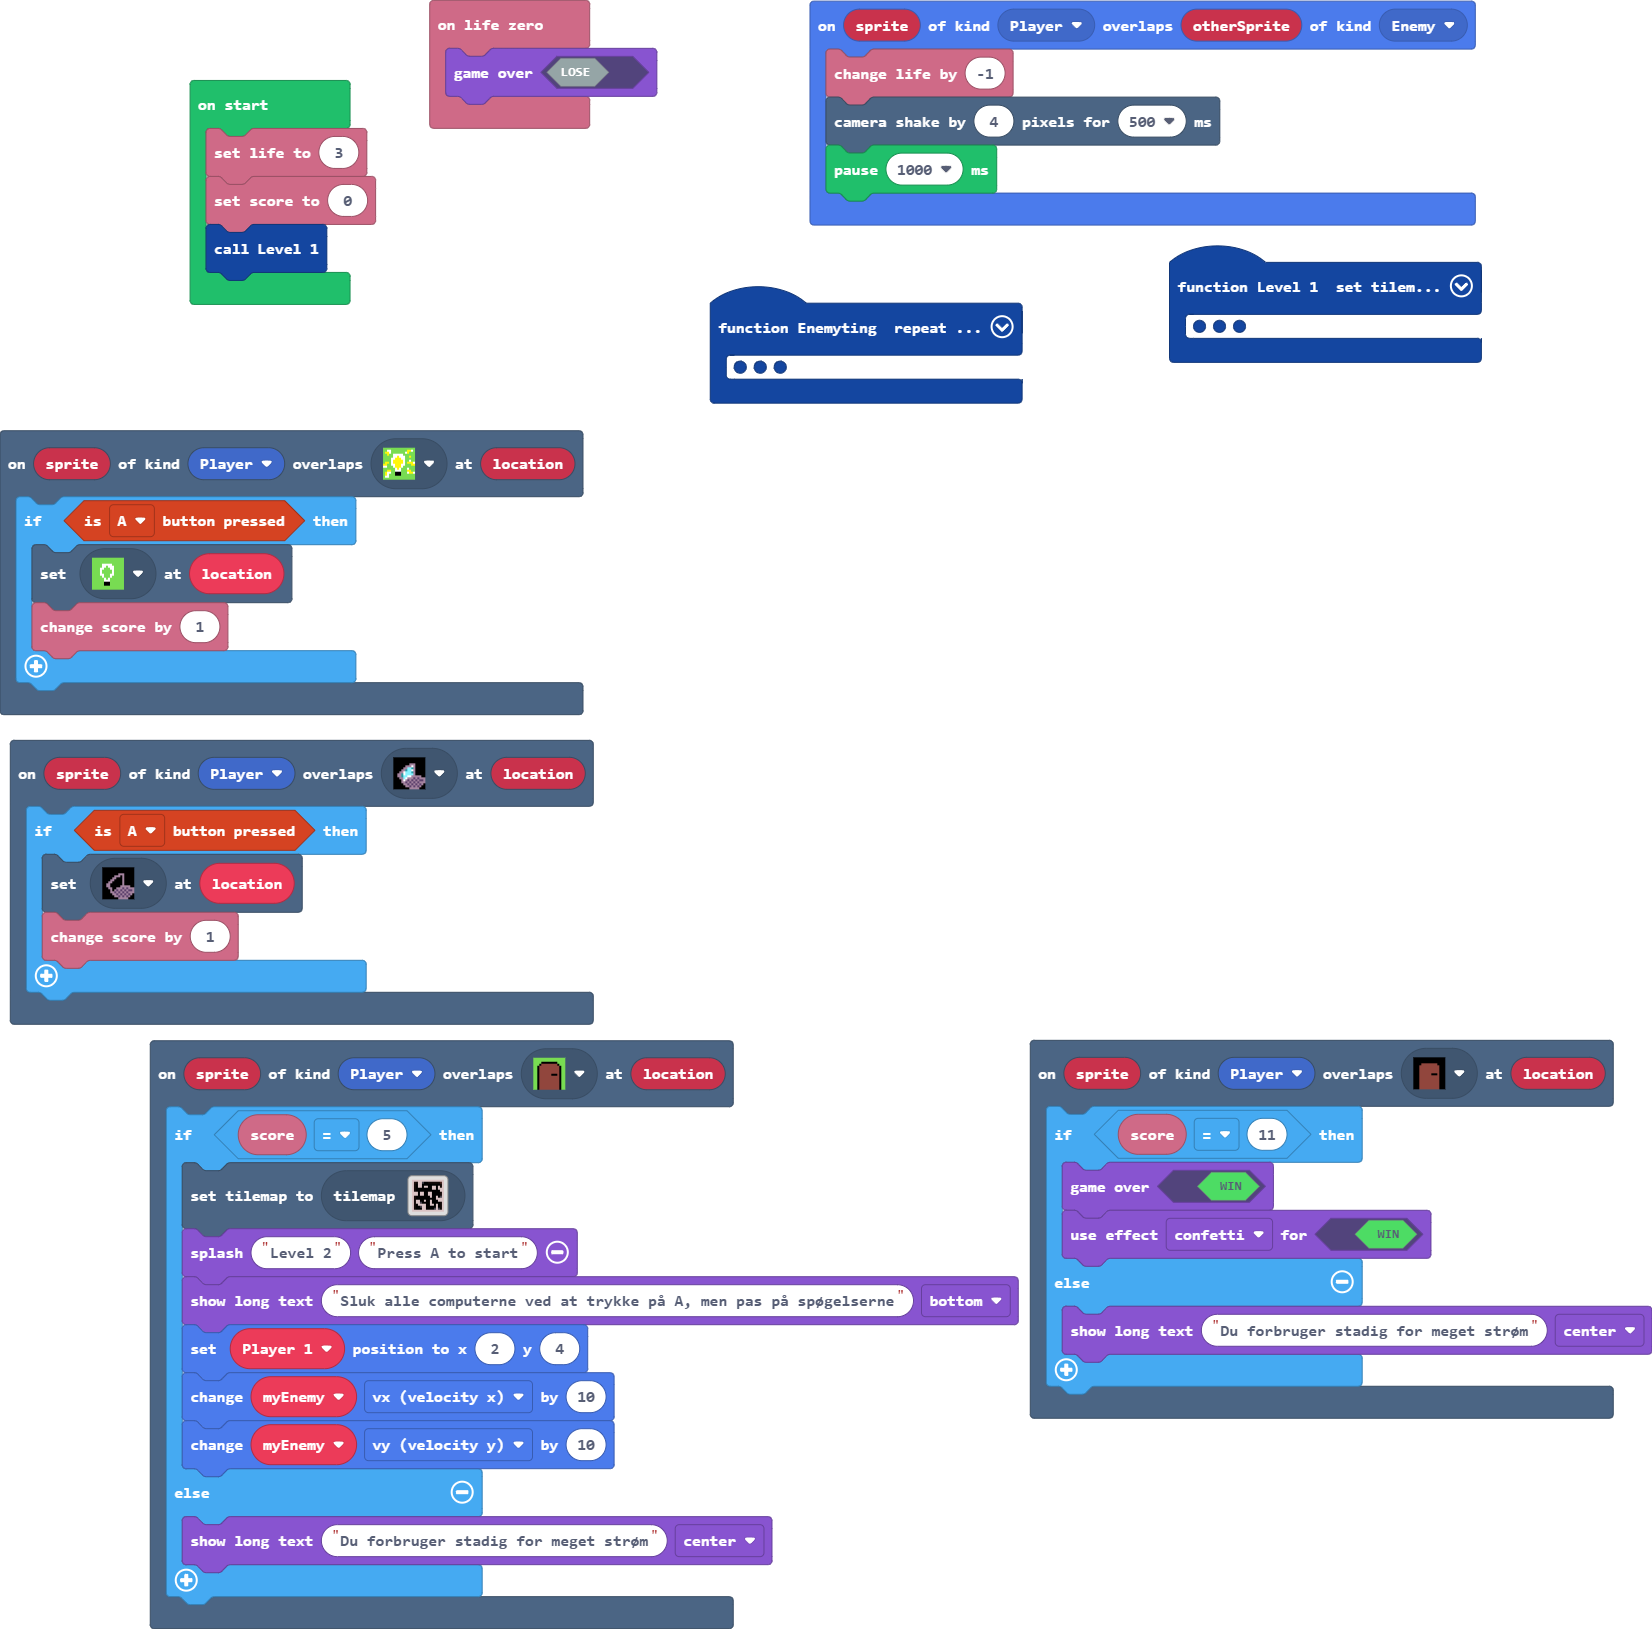
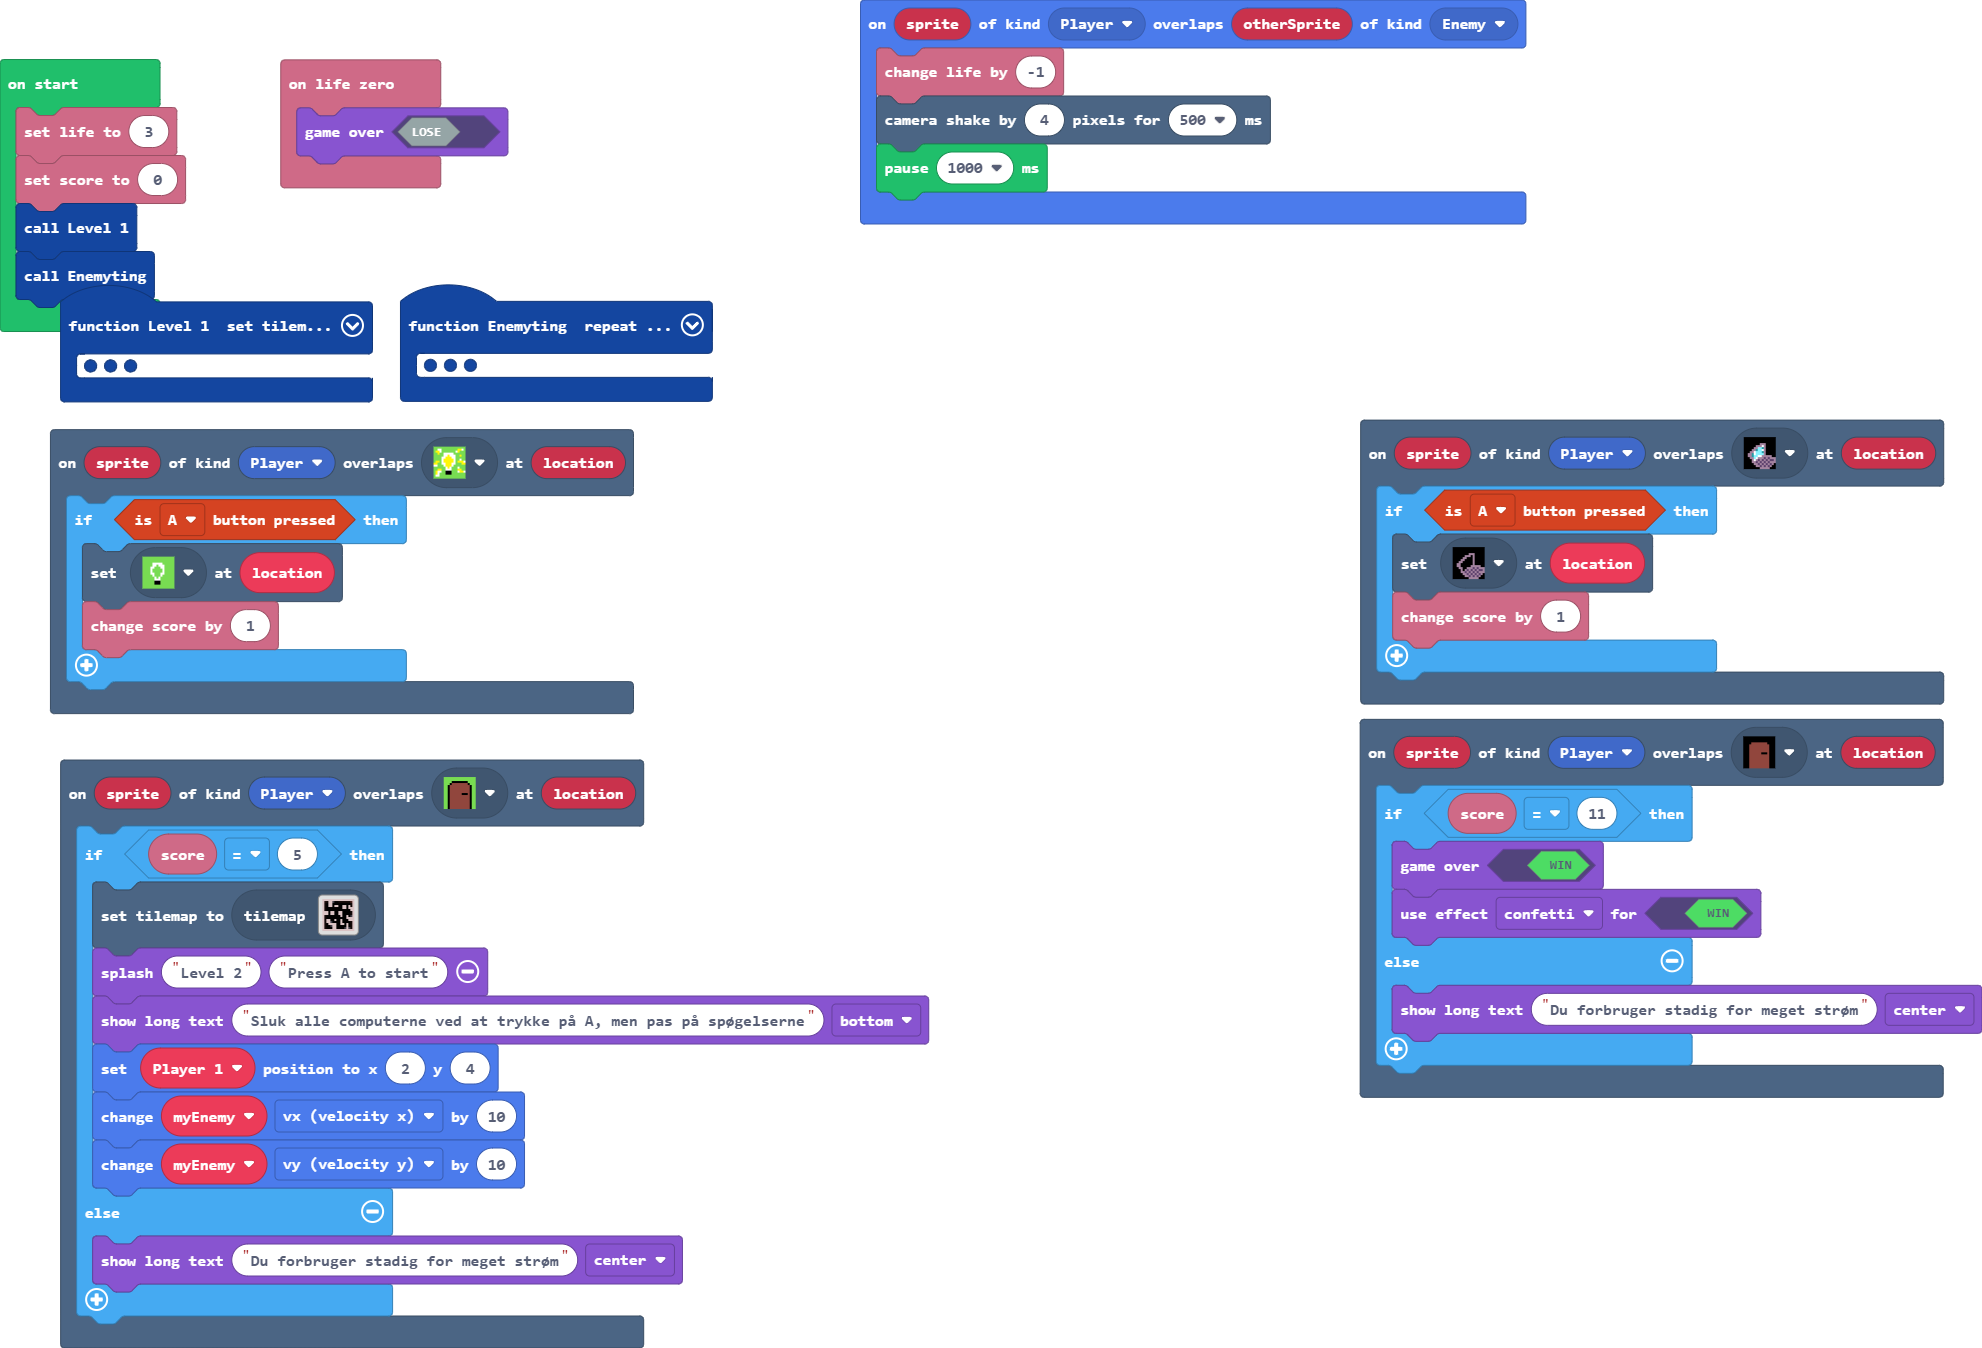
Update main.blocks, main.ts

diff --git a/main.ts b/main.ts
@@ -19,7 +19,7 @@ scene.onOverlapTile(SpriteKind.Player, assets.tile`myTile3`, function (sprite, l
 function Level_1 () {
     tiles.setCurrentTilemap(tilemap`level2`)
     game.splash("Level 1", "Press A to start")
-    game.showLongText("Sluk alle lamperne (5) ved at trykke på A, men pas på spøgelserne", DialogLayout.Bottom)
+    game.showLongText("Sluk alle lamperne ved at trykke på A, men pas på spøgelserne", DialogLayout.Bottom)
     Player_1 = sprites.create(assets.image`myImage`, SpriteKind.Player)
     Player_1.setPosition(25, 25)
     animation.runImageAnimation(
@@ -31,7 +31,6 @@ function Level_1 () {
     controller.moveSprite(Player_1)
     Player_1.setStayInScreen(true)
     scene.cameraFollowSprite(Player_1)
-    Enemyting()
 }
 function Enemyting () {
     for (let index = 0; index < 3; index++) {
@@ -94,3 +93,4 @@ let Player_1: Sprite = null
 info.setLife(3)
 info.setScore(0)
 Level_1()
+Enemyting()
